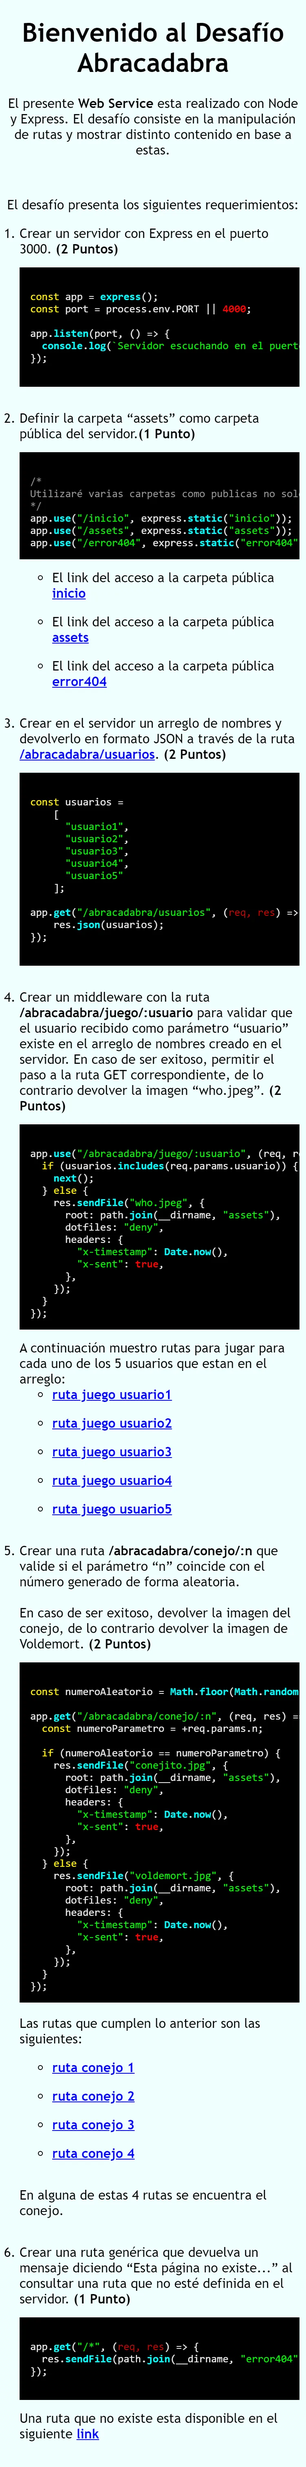
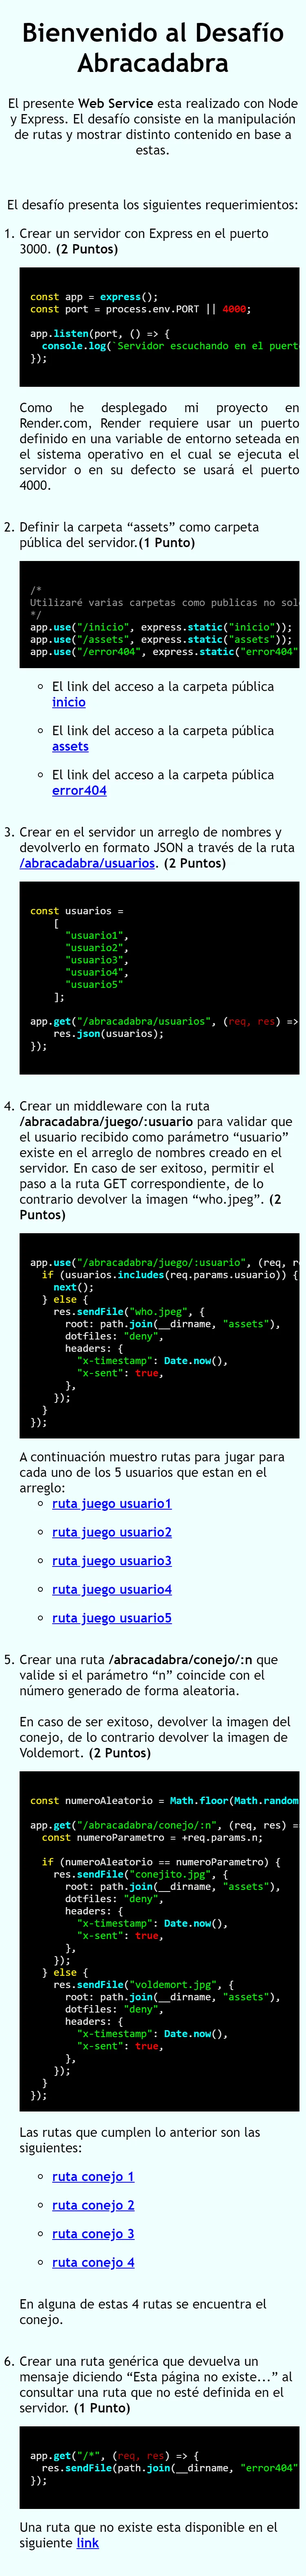
update pagina inicio html and screenshot

Changed region(s): [[0.0307, 0.0, 0.9813, 0.997]]

diff --git a/inicio/index.html b/inicio/index.html
@@ -36,6 +36,12 @@ app.listen(port, () =&gt; {
   console.log(`Servidor escuchando en el puerto: ${port}`);
 });
             </code></pre>
+            <p style="text-align: justify">
+              Como he desplegado mi proyecto en Render.com, Render requiere usar
+              un puerto definido en una variable de entorno seteada en el
+              sistema operativo en el cual se ejecuta el servidor o en su
+              defecto se usará el puerto 4000.
+            </p>
           </li>
 
           <li>
